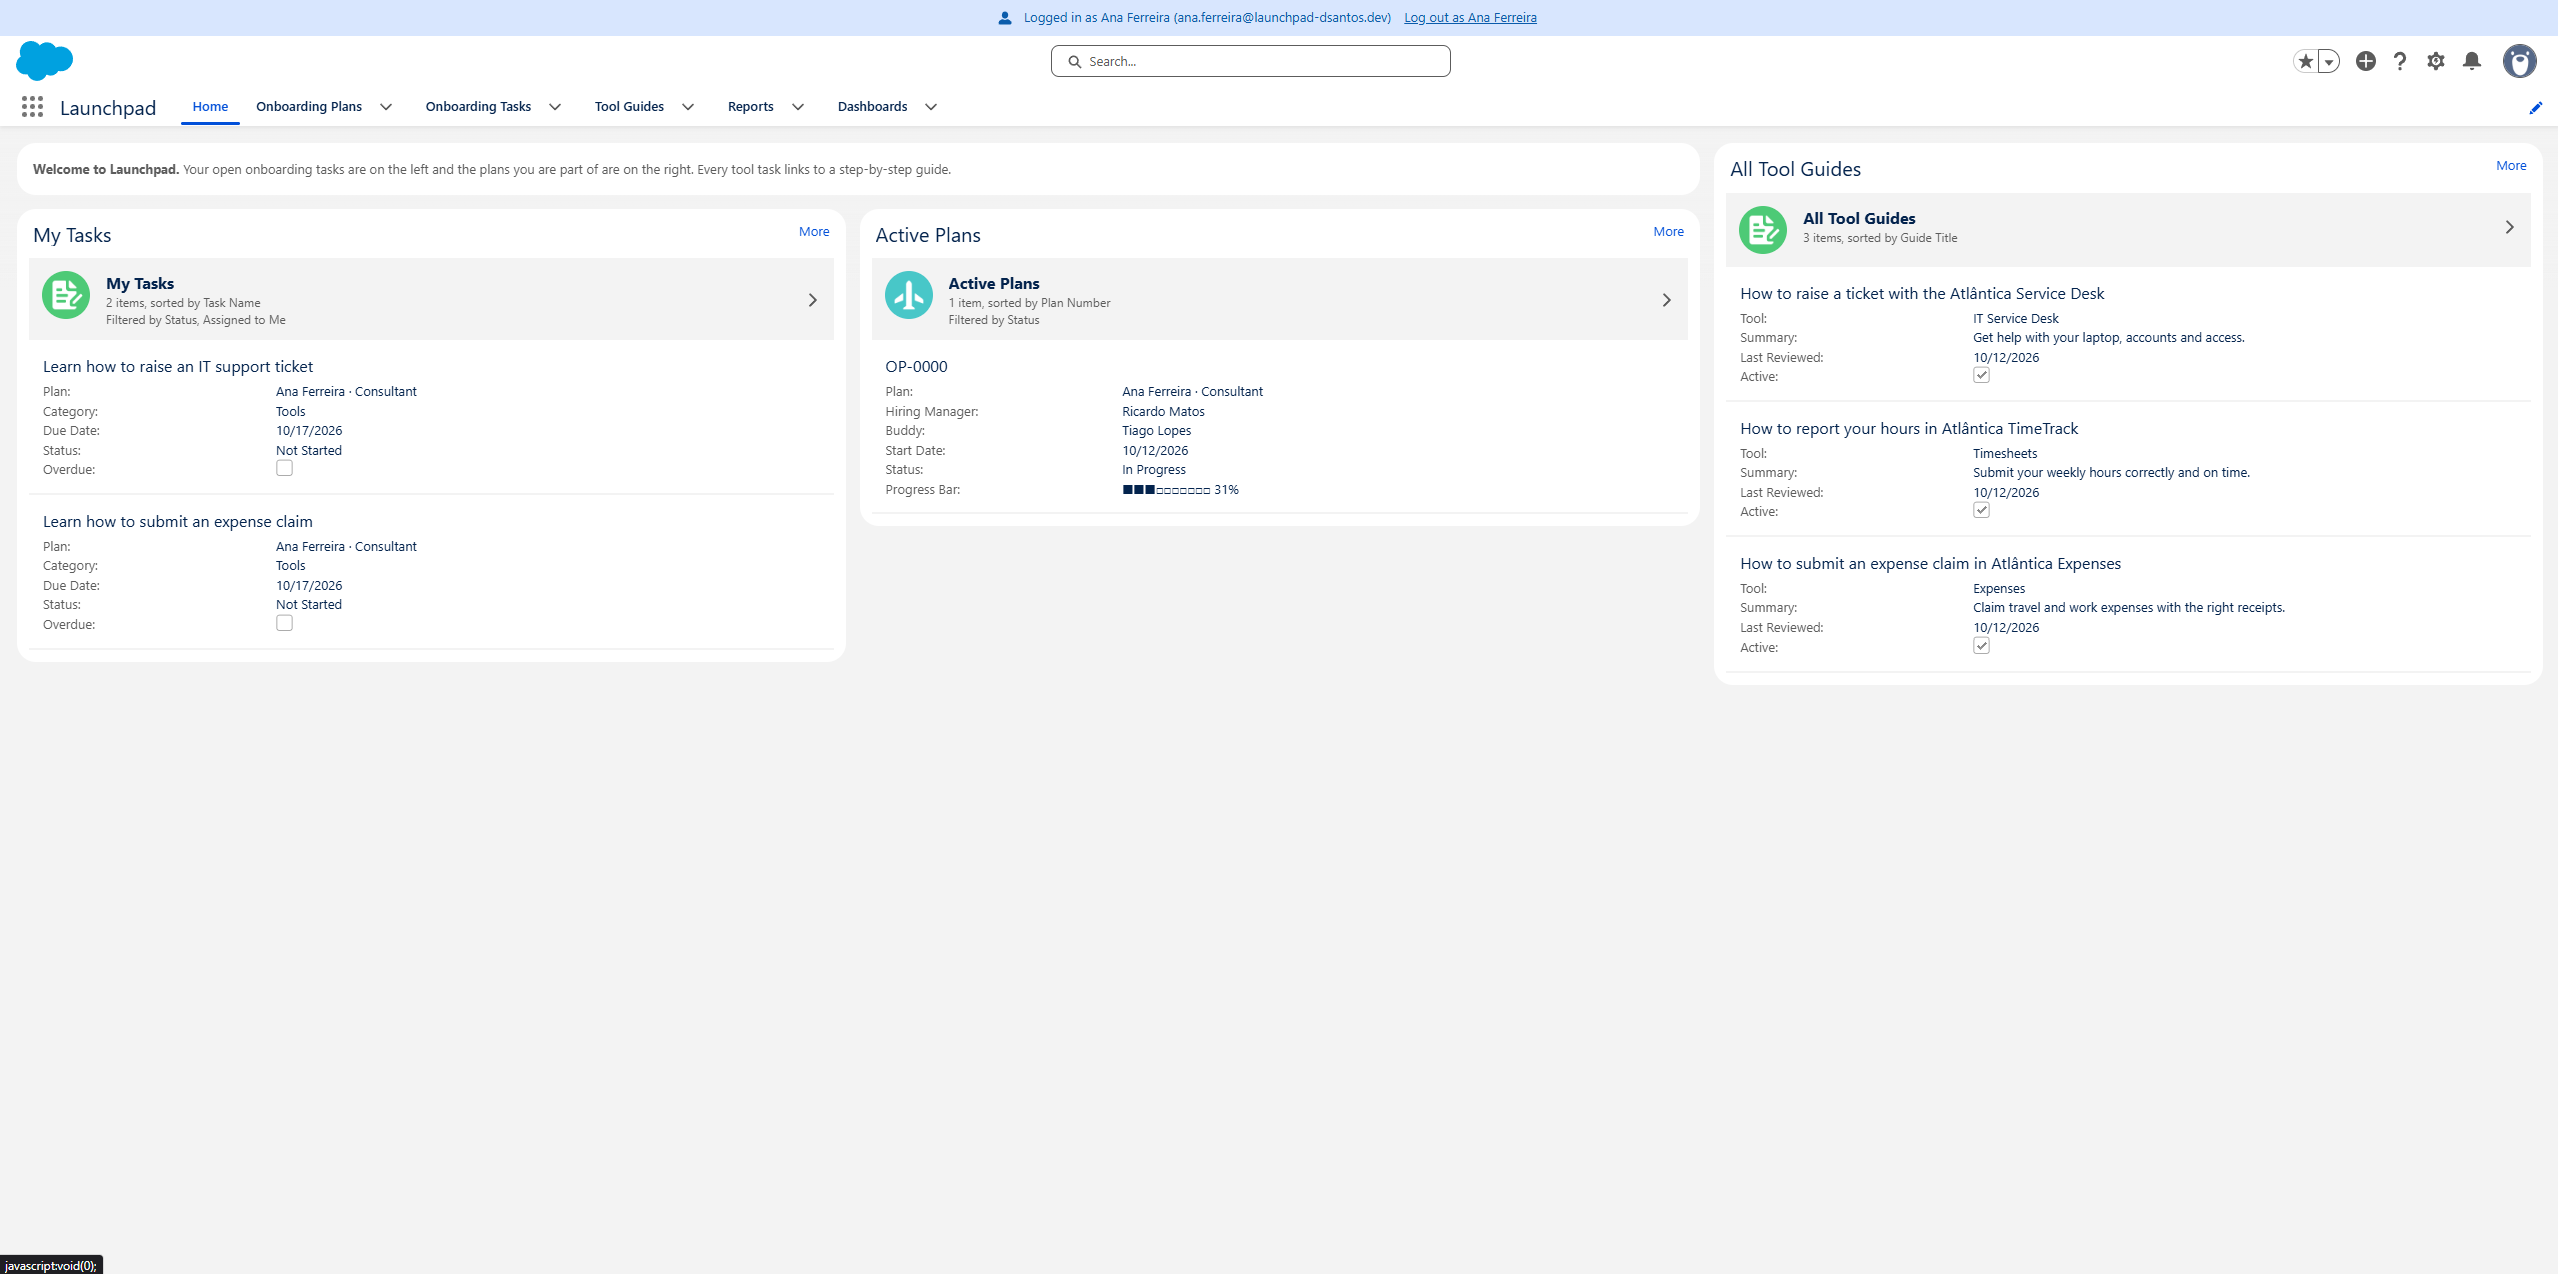
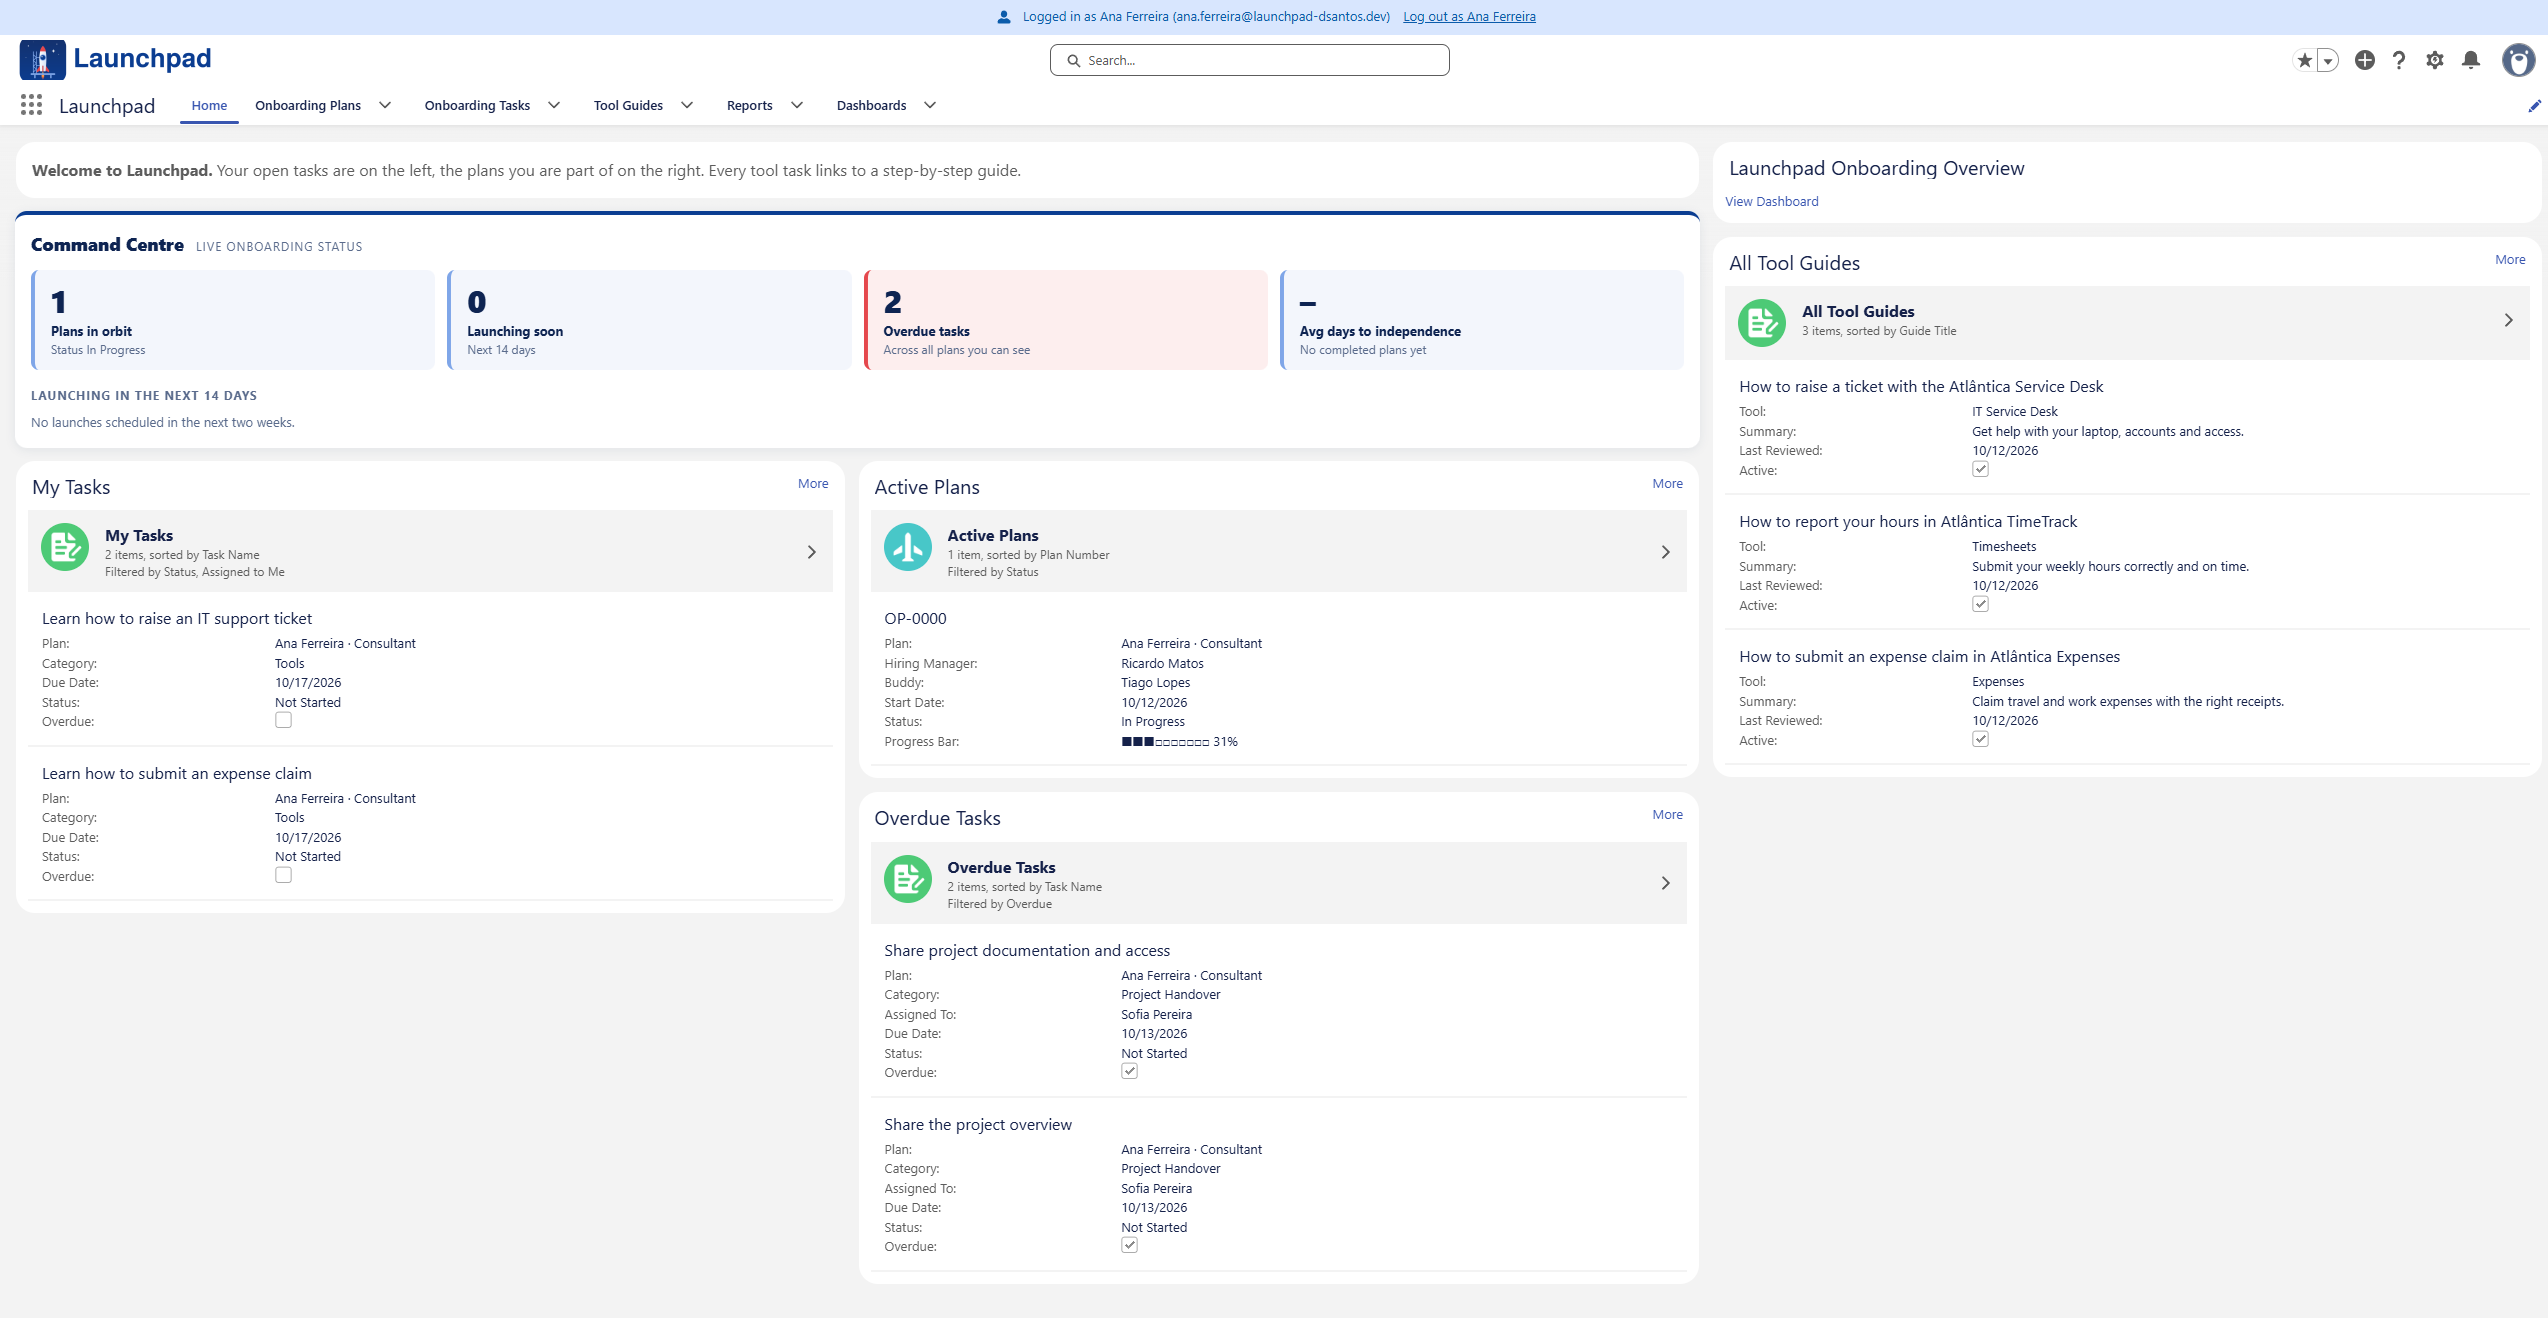
Fix Mission Control progress and stage timeline; update screenshots

diff --git a/force-app/main/default/lwc/missionControl/missionControl.js b/force-app/main/default/lwc/missionControl/missionControl.js
@@ -5,7 +5,6 @@ import { NavigationMixin } from 'lightning/navigation';
 
 import STATUS from '@salesforce/schema/Onboarding_Plan__c.Status__c';
 import START_DATE from '@salesforce/schema/Onboarding_Plan__c.Start_Date__c';
-import PROGRESS from '@salesforce/schema/Onboarding_Plan__c.Progress__c';
 import TOTAL from '@salesforce/schema/Onboarding_Plan__c.Total_Tasks__c';
 import COMPLETED from '@salesforce/schema/Onboarding_Plan__c.Completed_Tasks__c';
 import DAYS_TO_INDEPENDENCE from '@salesforce/schema/Onboarding_Plan__c.Days_To_Independence__c';
@@ -16,7 +15,7 @@ import USER_NAME from '@salesforce/schema/User.Name';
 import USER_TITLE from '@salesforce/schema/User.Title';
 import USER_PHOTO from '@salesforce/schema/User.SmallPhotoUrl';
 
-const PLAN_FIELDS = [STATUS, START_DATE, PROGRESS, TOTAL, COMPLETED, DAYS_TO_INDEPENDENCE, BUDDY, MANAGER];
+const PLAN_FIELDS = [STATUS, START_DATE, TOTAL, COMPLETED, DAYS_TO_INDEPENDENCE, BUDDY, MANAGER];
 const USER_FIELDS = [USER_NAME, USER_TITLE, USER_PHOTO];
 const STAGES = ['Draft', 'Ready', 'In Progress', 'Completed'];
 const STAGE_LABELS = { Draft: 'Prep', Ready: 'Ready', 'In Progress': 'In orbit', Completed: 'Landed' };
@@ -119,7 +118,11 @@ export default class MissionControl extends NavigationMixin(LightningElement) {
         return this.plan ? getFieldValue(this.plan, MANAGER) : undefined;
     }
     get progressPct() {
-        return Math.round((getFieldValue(this.plan, PROGRESS) || 0) * 100);
+        // Computed from the roll-ups: a Percent field already arrives as 31 (not 0.31),
+        // so deriving it avoids any unit confusion.
+        const total = getFieldValue(this.plan, TOTAL) || 0;
+        const done = getFieldValue(this.plan, COMPLETED) || 0;
+        return total ? Math.round((done / total) * 100) : 0;
     }
     get taskSummary() {
         const total = getFieldValue(this.plan, TOTAL) || 0;
@@ -167,7 +170,7 @@ export default class MissionControl extends NavigationMixin(LightningElement) {
             let state = 'todo';
             if (current > i || this.status === 'Completed') state = 'done';
             if (current === i && this.status !== 'Completed') state = 'current';
-            return { key: s, label: STAGE_LABELS[s], cls: `stage stage_${state}` };
+            return { key: s, label: STAGE_LABELS[s], cls: `stage stage_${state}`, dotCls: `stage-dot stage-dot_${state}` };
         });
     }
 

diff --git a/force-app/main/default/lwc/missionControl/missionControl.css b/force-app/main/default/lwc/missionControl/missionControl.css
@@ -13,13 +13,13 @@
 .mc-countdown-big { font-size: 2.25rem; font-weight: 800; line-height: 1.1; }
 .mc-countdown-small { font-size: 0.8125rem; color: #c9d8f5; text-transform: uppercase; letter-spacing: 0.08em; }
 
-.mc-stages { display: flex; justify-content: space-between; position: relative; margin: 0.25rem 0 1rem; padding: 0; list-style: none; }
-.mc-stages::before { content: ''; position: absolute; top: 0.4rem; left: 8%; right: 8%; height: 2px; background: rgba(201, 216, 245, 0.35); }
-.stage { position: relative; display: flex; flex-direction: column; align-items: center; flex: 1; }
-.stage-dot { width: 0.8rem; height: 0.8rem; border-radius: 50%; background: #0e2452; border: 2px solid rgba(201, 216, 245, 0.5); z-index: 1; }
-.stage-label { margin-top: 0.3rem; font-size: 0.6875rem; color: #c9d8f5; }
-.stage_done .stage-dot { background: #7fa6e8; border-color: #7fa6e8; }
-.stage_current .stage-dot { background: #ffb547; border-color: #ffb547; box-shadow: 0 0 0 4px rgba(255, 181, 71, 0.25); }
+.mc-stages { position: relative; display: grid; grid-template-columns: repeat(4, 1fr); margin: 0.25rem 0 1rem; }
+.mc-stages-line { position: absolute; top: 0.4rem; left: 12.5%; right: 12.5%; height: 2px; background: rgba(201, 216, 245, 0.35); }
+.stage { position: relative; display: flex; flex-direction: column; align-items: center; text-align: center; }
+.stage-dot { display: block; width: 0.8rem; height: 0.8rem; border-radius: 50%; background: #0e2452; border: 2px solid rgba(201, 216, 245, 0.5); position: relative; z-index: 1; }
+.stage-dot_done { background: #7fa6e8; border-color: #7fa6e8; }
+.stage-dot_current { background: #ffb547; border-color: #ffb547; box-shadow: 0 0 0 4px rgba(255, 181, 71, 0.25); }
+.stage-label { display: block; margin-top: 0.3rem; font-size: 0.6875rem; color: #c9d8f5; white-space: nowrap; }
 .stage_current .stage-label { color: #ffffff; font-weight: 700; }
 
 .mc-gauge-row { display: flex; align-items: center; gap: 1rem; margin-bottom: 1rem; }

diff --git a/force-app/main/default/lwc/missionControl/missionControl.html b/force-app/main/default/lwc/missionControl/missionControl.html
@@ -16,14 +16,15 @@
                 <div class="mc-countdown-small">{countdown.small}</div>
             </section>
 
-            <ol class="mc-stages">
+            <div class="mc-stages">
+                <div class="mc-stages-line"></div>
                 <template for:each={stages} for:item="stage">
-                    <li key={stage.key} class={stage.cls}>
-                        <span class="stage-dot"></span>
+                    <div key={stage.key} class={stage.cls}>
+                        <span class={stage.dotCls}></span>
                         <span class="stage-label">{stage.label}</span>
-                    </li>
+                    </div>
                 </template>
-            </ol>
+            </div>
 
             <section class="mc-gauge-row">
                 <div class="mc-gauge" aria-label="Onboarding progress">
